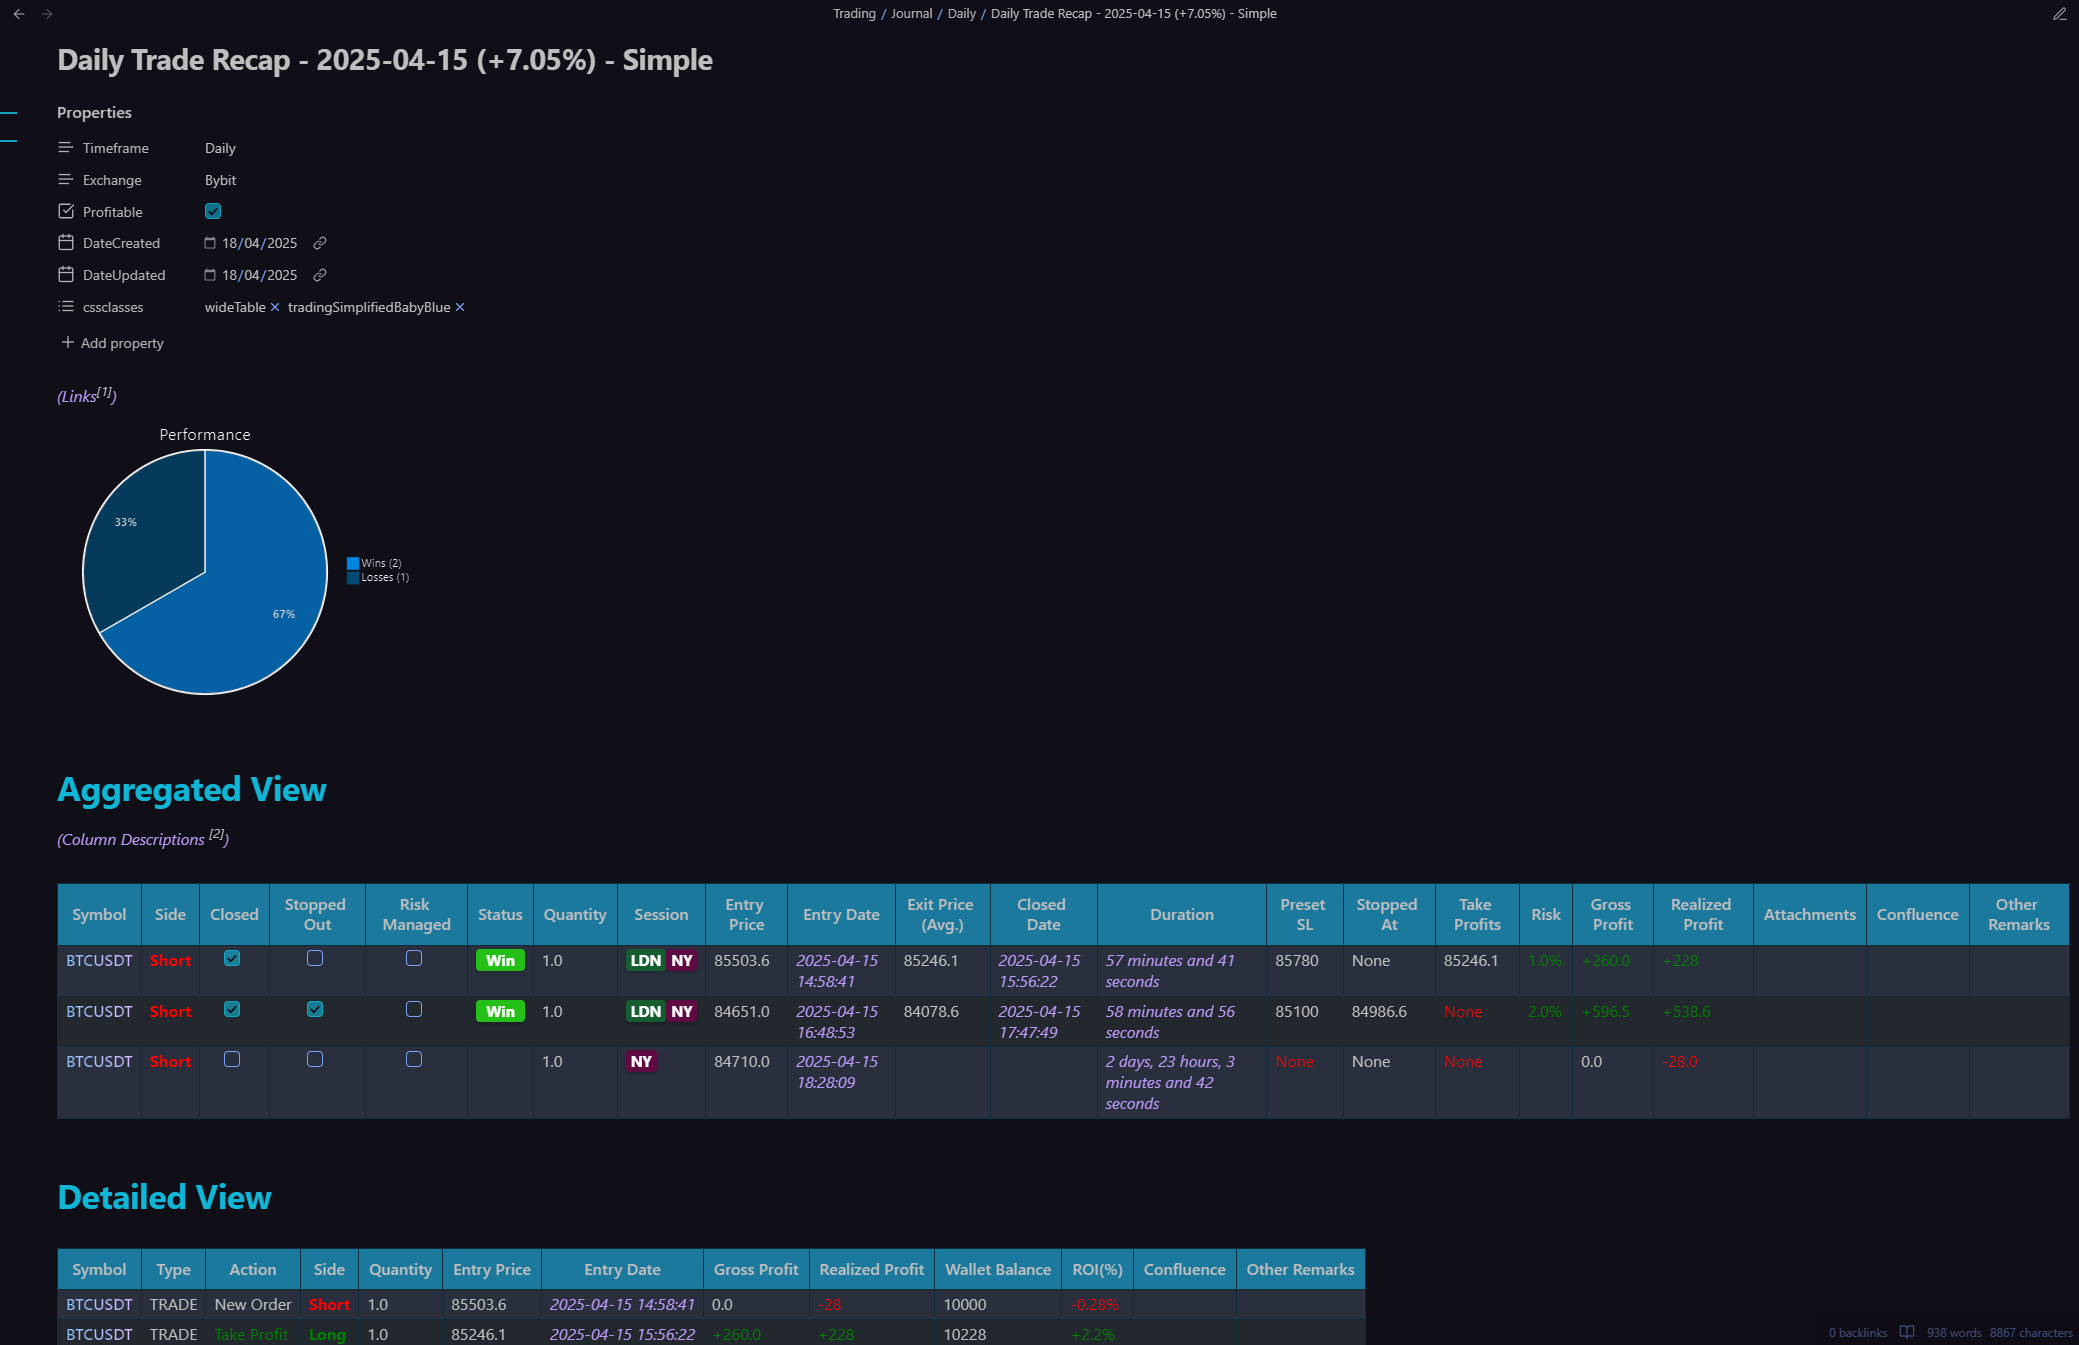
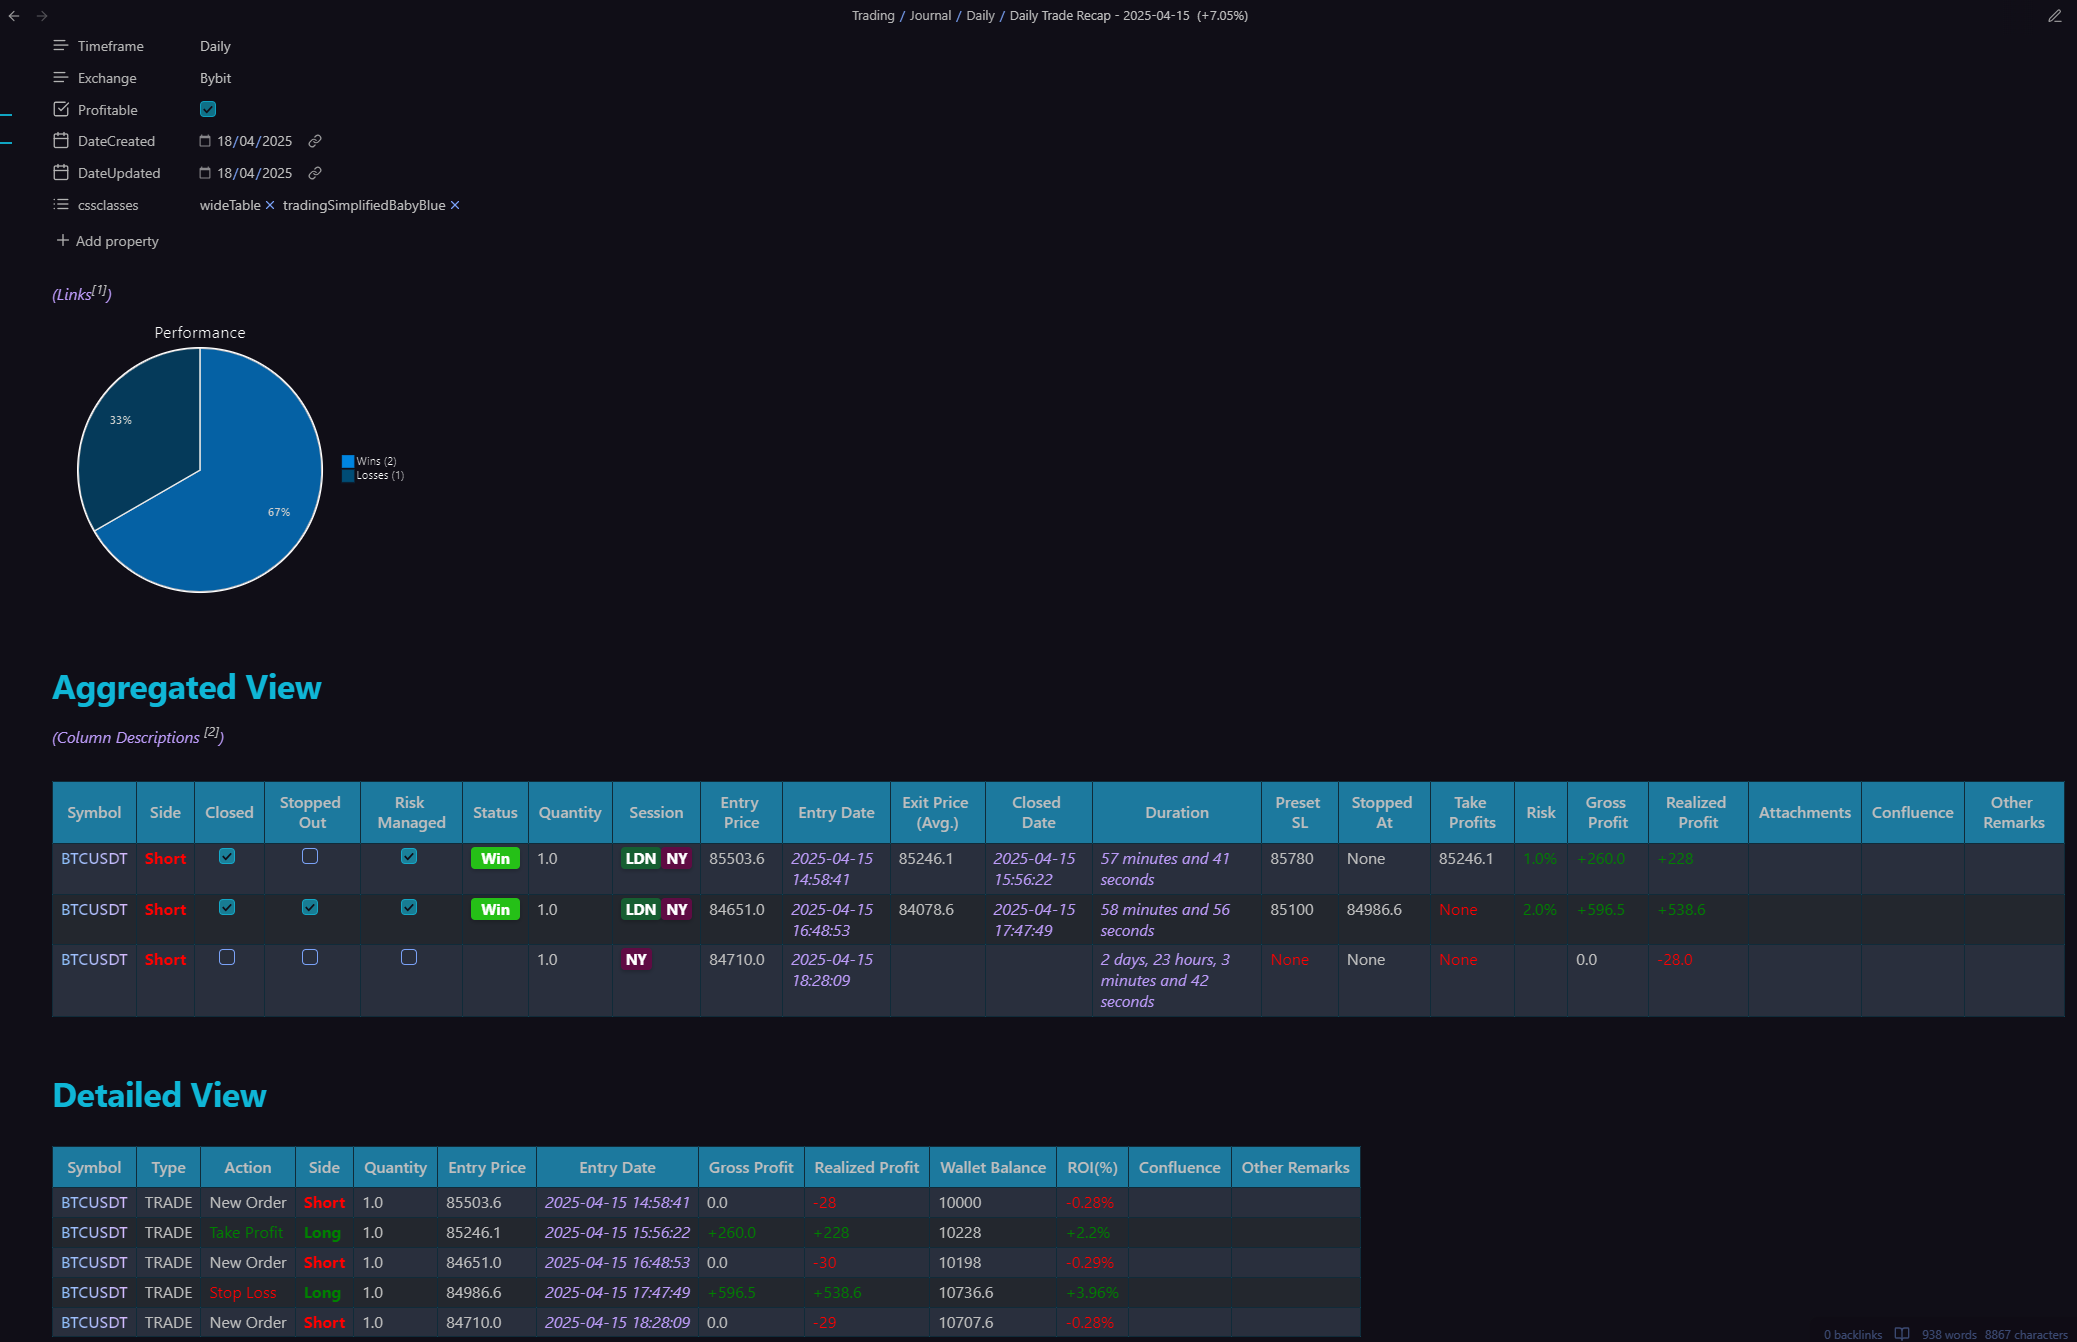
Added some other image examples. Updated readme with a better img illustration

diff --git a/obsidian/examples/daily/output/Daily Trade Recap - 2025-04-15 (+7.05%).md b/obsidian/examples/daily/output/Daily Trade Recap - 2025-04-15 (+7.05%).md
@@ -50,7 +50,7 @@ _(Column Descriptions [^2])_
 | Symbol      | Side                                                      | Closed                                           | Stopped Out                                      | Risk Managed                             | Status                           | Quantity | Session                                                                        | Entry Price | Entry Date            | Exit Price (Avg.) | Closed Date           | Duration                                     | Preset SL                             | Stopped At | Take Profits                          | Risk                                    | Gross Profit                              | Realized Profit                           | Attachments | Confluence | Other Remarks |
 | ----------- | --------------------------------------------------------- | ------------------------------------------------ | ------------------------------------------------ | ---------------------------------------- | -------------------------------- | -------- | ------------------------------------------------------------------------------ | ----------- | --------------------- | ----------------- | --------------------- | -------------------------------------------- | ------------------------------------- | ---------- | ------------------------------------- | --------------------------------------- | ----------------------------------------- | ----------------------------------------- | ----------- | ---------- | ------------- |
 | **BTCUSDT** | <span style="color: red; font-weight: bold;">Short<span/> | <center><input type="checkbox" checked><center/> | <center><input type="checkbox"><center/>         | <center><input type="checkbox"><center/> | <span class="tag-win">Win</span> | 1.0      | <span class="tag-session-ldn">LDN</span><span class="tag-session-ny">NY</span> | 85503.6     | _2025-04-15 14:58:41_ | 85246.1           | _2025-04-15 15:56:22_ | *57 minutes and 41 seconds*                  | 85780                                 | None       | 85246.1                               | <span style="color: green;">1.0%<span/> | <span style="color: green;">+260.0<span/> | <span style="color: green;">+228<span/>   | <NA>        | <NA>       | <NA>          |
-| **BTCUSDT** | <span style="color: red; font-weight: bold;">Short<span/> | <center><input type="checkbox" checked><center/> | <center><input type="checkbox" checked><center/> | <center><input type="checkbox"><center/> | <span class="tag-win">Win</span> | 1.0      | <span class="tag-session-ldn">LDN</span><span class="tag-session-ny">NY</span> | 84651.0     | _2025-04-15 16:48:53_ | 84078.6           | _2025-04-15 17:47:49_ | *58 minutes and 56 seconds*                  | 85100                                 | 84986.6    | <span style="color: red;">None<span/> | <span style="color: green;">2.0%<span/> | <span style="color: green;">+596.5<span/> | <span style="color: green;">+538.6<span/> | <NA>        | <NA>       | <NA>          |
+| **BTCUSDT** | <span style="color: red; font-weight: bold;">Short<span/> | <center><input type="checkbox" checked><center/> | <center><input type="checkbox" checked><center/> | <center><input type="checkbox"><center/> | <span class="tag-win">Win</span> | 1.0      | <span class="tag-session-ldn">LDN</span><span class="tag-session-ny">NY</span> | 84651.0     | _2025-04-15 16:48:53_ | 84078.6           | _2025-04-15 17:47:49_ | *58 minutes and 56 seconds*                  | 85100                                 | 84078.6    | <span style="color: red;">None<span/> | <span style="color: green;">2.0%<span/> | <span style="color: green;">+596.5<span/> | <span style="color: green;">+538.6<span/> | <NA>        | <NA>       | <NA>          |
 | **BTCUSDT** | <span style="color: red; font-weight: bold;">Short<span/> | <center><input type="checkbox"><center/>         | <center><input type="checkbox"><center/>         | <center><input type="checkbox"><center/> |                                  | 1.0      | <span class="tag-session-ny">NY</span>                                         | 84710.0     | _2025-04-15 18:28:09_ |                   |                       | *2 days, 23 hours, 3 minutes and 42 seconds* | <span style="color: red;">None<span/> | None       | <span style="color: red;">None<span/> |                                         | 0.0                                       | <span style="color: red;">-28.0<span/>    | <NA>        | <NA>       | <NA>          |
 
 # Detailed View
@@ -61,7 +61,7 @@ _(Column Descriptions [^2])_
 | **BTCUSDT** | TRADE | New Order                                      | <span style="color: red; font-weight: bold;">Short<span/>  | 1.0      | 85503.6     | _2025-04-15 14:58:41_ | 0.0                                       | <span style="color: red;">-28<span/>      | 10000          | <span style="color: red;">-0.28%<span/>   | <NA>       | <NA>          |
 | **BTCUSDT** | TRADE | <span style="color: green;">Take Profit<span/> | <span style="color: green; font-weight: bold;">Long<span/> | 1.0      | 85246.1     | _2025-04-15 15:56:22_ | <span style="color: green;">+260.0<span/> | <span style="color: green;">+228<span/>   | 10228          | <span style="color: green;">+2.2%<span/>  | <NA>       | <NA>          |
 | **BTCUSDT** | TRADE | New Order                                      | <span style="color: red; font-weight: bold;">Short<span/>  | 1.0      | 84651.0     | _2025-04-15 16:48:53_ | 0.0                                       | <span style="color: red;">-30<span/>      | 10198          | <span style="color: red;">-0.29%<span/>   | <NA>       | <NA>          |
-| **BTCUSDT** | TRADE | <span style="color: red;">Stop Loss<span/>     | <span style="color: green; font-weight: bold;">Long<span/> | 1.0      | 84986.6     | _2025-04-15 17:47:49_ | <span style="color: green;">+596.5<span/> | <span style="color: green;">+538.6<span/> | 10736.6        | <span style="color: green;">+3.96%<span/> | <NA>       | <NA>          |
+| **BTCUSDT** | TRADE | <span style="color: red;">Stop Loss<span/>     | <span style="color: green; font-weight: bold;">Long<span/> | 1.0      | 84078.6     | _2025-04-15 17:47:49_ | <span style="color: green;">+596.5<span/> | <span style="color: green;">+538.6<span/> | 10736.6        | <span style="color: green;">+3.96%<span/> | <NA>       | <NA>          |
 | **BTCUSDT** | TRADE | New Order                                      | <span style="color: red; font-weight: bold;">Short<span/>  | 1.0      | 84710.0     | _2025-04-15 18:28:09_ | 0.0                                       | <span style="color: red;">-29<span/>      | 10707.6        | <span style="color: red;">-0.28%<span/>   | <NA>       | <NA>          |
 
 

diff --git a/README.md b/README.md
@@ -56,6 +56,8 @@ inconveniences, the main ones being either:
 This application, while still being a small and limited version of a bigger idea, tries to provide a free
 alternative to journal automation and dashboard customization.
 
+Here's a simple example of what can be generated:
+
 ![Daily Trade Recap.png](obsidian/examples/daily/output/Daily%20Trade%20Recap.png)
 
 ---
